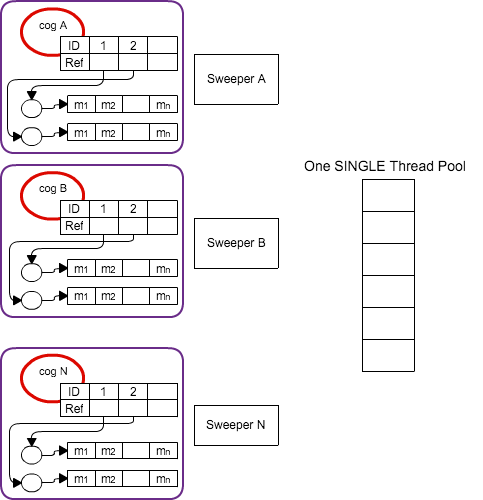
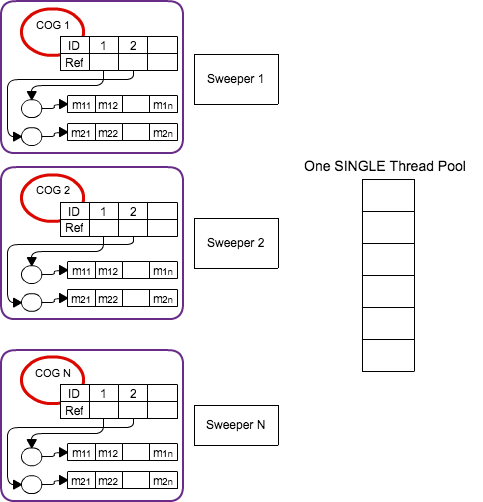
Changed Fig. 8 according to RH TODO

diff --git a/2015-active-objects-survey.tex b/2015-active-objects-survey.tex
@@ -2213,9 +2213,9 @@ existing queues is instantiated and becomes available for execution.
 A \emph{single} global thread pool executes available tasks based on a
 work stealing mechanism.
 
-\RH{Please replace cog B in Fig. 8 with vertical dots to save
-  space. Replace cog with COG. Repace cog/Sweeper A with cog/sweeper
-  1. Use different indices for each m.}
+%\RH{Please replace cog B in Fig. 8 with vertical dots to save
+%  space. Replace cog with COG. Repace cog/Sweeper A with cog/sweeper
+ % 1. Use different indices for each m.}
 
 %%% Note (RH): I don't understand this, should be left out, too detailed
 % The remaining problem is the situation when an execution of multiple
